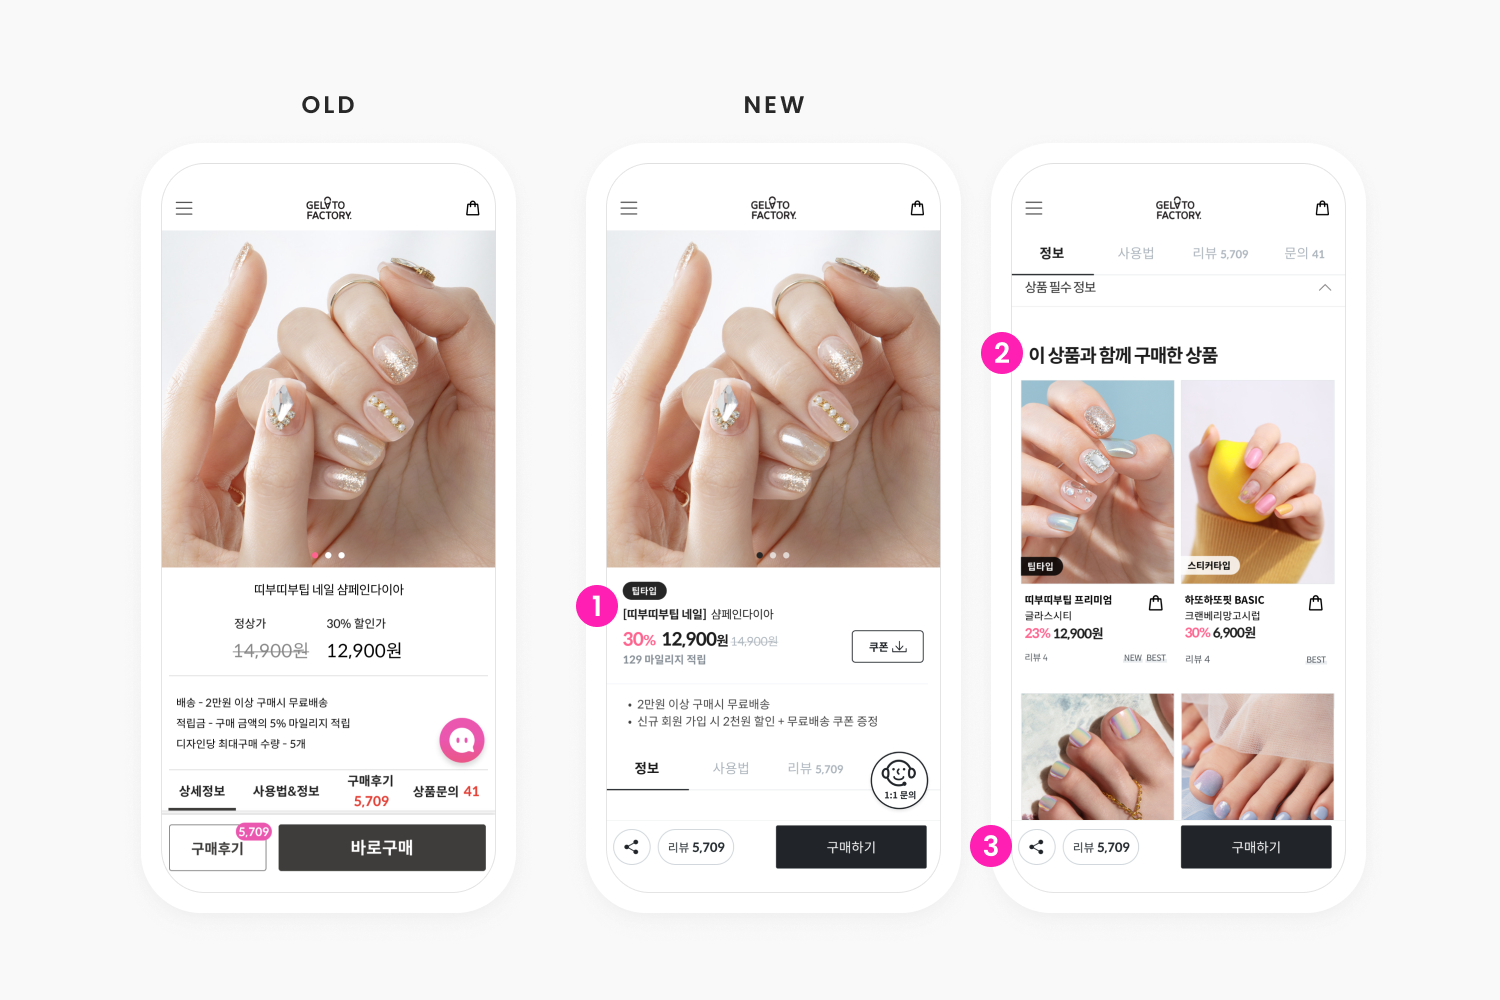
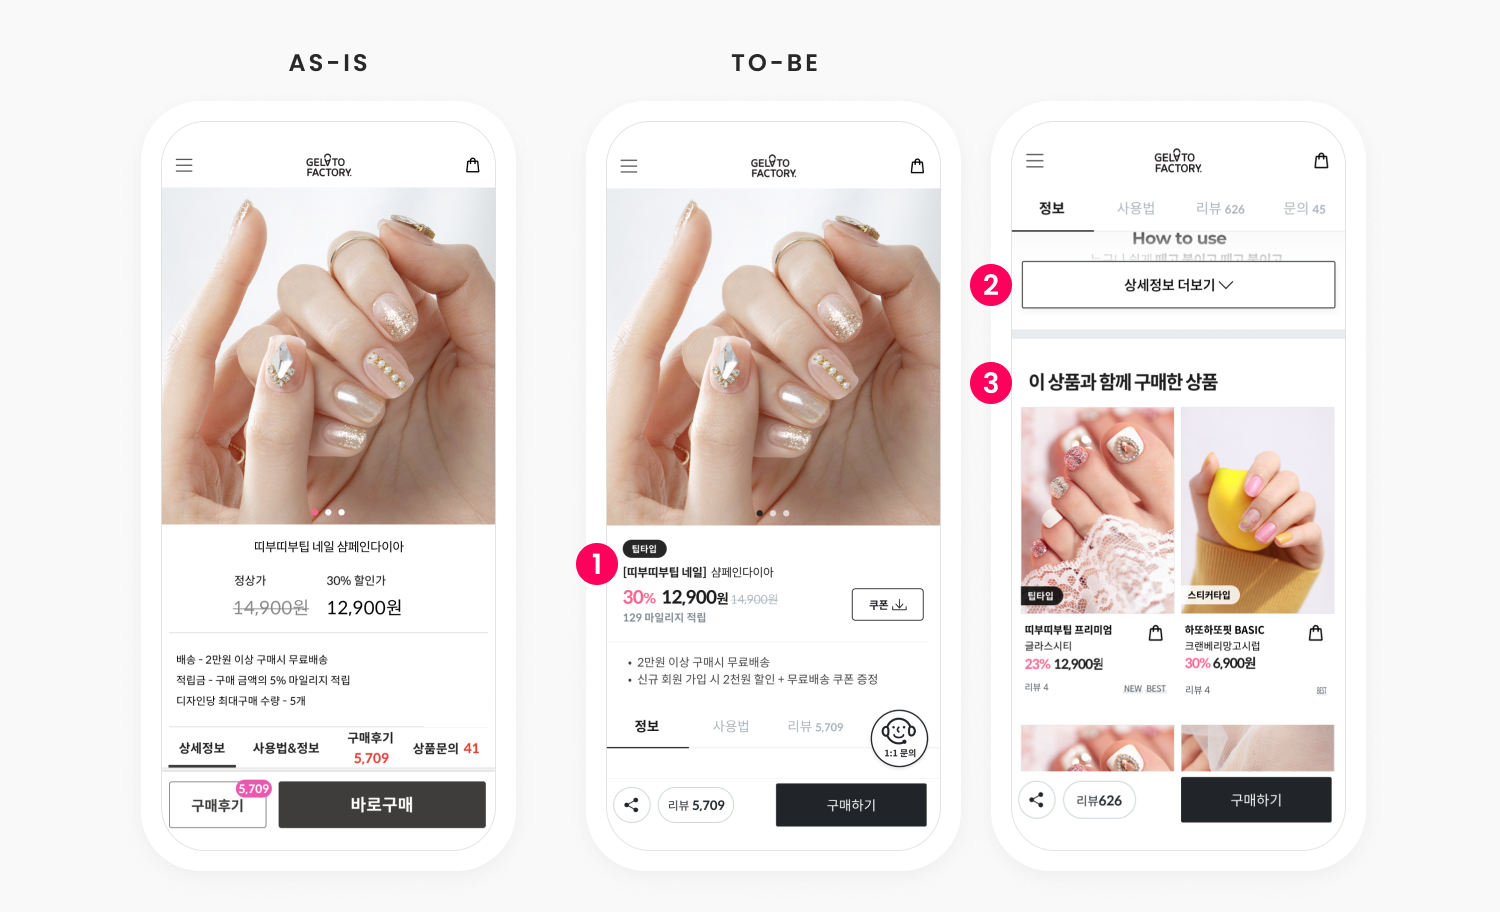
젤팩 내용 수정

diff --git a/_projects/2020-03-01-factory.md b/_projects/2020-03-01-factory.md
@@ -9,24 +9,35 @@ gallery_images:
   - factory.png
 ---
 * **Team**: 1 PM, 1 designer and 1 engineer
-* **Duration**: 1 months (2020.03)
+* **Duration**: 2 months (2020.03)
 * **Role**: Product Design (100%)
 * **Areas of Focus**: User Research, A/B Test, Visual Design
 
 #### Overview
-젤라또팩토리는 네일스티커와 네일팁, 관련 부자재 등을 판매하는 커머스 서비스입니다. 여느 커머스 서비스와 같이 매출을 끌어올리기 위해 다양한 시도를 했는데요. 그 중에서 ```평균 구매 제품 수 늘리기```에 초점을 맞췄던 프로젝트에 대해 이야기하려고 합니다.
+젤라또팩토리는 네일스티커와 네일팁, 관련 부자재 등을 판매하는 커머스 서비스입니다. 여느 커머스 서비스와 같이 매출을 끌어올리기 위해 다양한 시도를 했는데요. 
+
+그 중에서 `객단가 증가(평균 구매 제품 수 증가)`에 초점을 맞춰 상품 탐색 시나리오를 개선해 `유저당 구매 제품 수 평균을 66% 높인` 프로젝트에 대해 이야기하려고 합니다.
 
 2020년 초에 진행했고, 기획자 1명과 개발자 1명 그리고 저까지 3명이 팀이 되어 작업했습니다.
 
+#### As-is
+사용자는 sns 광고를 통해 `상품 목록` 또는 `상품 상세` 페이지로 유입되어 마음에 드는 상품을 구경하고 장바구니에 상품을 담습니다. 세션당 `4.65`개의 페이지를 봅니다.
+
+![](/images/projects/06_factory/01.png)
+
 #### Problem
-젤라또팩토리 전체 소비자의 80%는 광고로 유입됩니다. 그만큼 광고비에 리소스를 많이 투입하고 있었는데요. 데이터 분석가, 세일즈팀 등 협업을 통해 선정한 문제점은 비교적 명확했습니다. 소비자들이 ```카탈로그 광고에서 본 1-2개의 제품만 구매한다```는 점이었습니다. 사이트 내에서 다른 제품에 대한 소개나 안내가 자연스레 되지 않고 있었고, 탐색 후 다른 제품군으로 연결되는 장치도 부족한 상태였습니다.
+젤라또팩토리 전체 소비자의 80%는 광고로 유입됩니다. CAC(신규 고객 획득 비용)가 1만원 정도인데 비해 객단가는 2만원대로 높지 않은 상황이었습니다. 
+
+데이터 분석가와 세일즈팀에서 데이터를 살펴보니, 소비자가 다양한 상품을 보지 못하고 `카탈로그 광고에서 본 1-2개의 제품만 구매` 후 사이트를 나간다는 것을 알게되었습니다. 
+
+사이트 내에서 다른 제품에 대한 소개나 안내가 자연스레 되지 않고 있었고, 탐색 후 다른 제품군으로 연결되는 장치도 부족한 상태였습니다.
 
 #### Goal
 1. Product : 소비자에게 다양한 제품을 소개 & 안내하고 구매를 유도한다. 
 2. User : 더 다양한 제품을 살펴보며 마음에 드는 제품을 함께 구매한다.
 3. Business : 매출을 높인다.
 
-아래에서는 리스트 페이지와 디테일 페이지 각각의 문제점과 해결 방법에 대해 이야기해보겠습니다.
+아래에서는 리스트 페이지와 디테일 페이지 각각의 문제점과 개선한 방법에 대해 이야기해보겠습니다.
 
 #### List Page
 <!-- [IMG] before 리스트 유형 (베스트, 카테고리, 이벤트 리스트) -->
@@ -39,14 +50,47 @@ gallery_images:
 
 ##### - Problem & Solution
 
-1.  세부 카테고리의 경우 디폴트 탭이 아니면 클릭을 잘 하지 않습니다. → **Solution** : 카테고리 디자인을 더 Clickable한 안으로 변경합니다. 디자인 변경 후 탭 클릭을 통한 탭간 이동이 42% 증가했습니다.
-2. 리스트의 정보가 빽빽하게 구성되어있고 위계가 불분명합니다. → **Solution** : 리스트 표시 정보에서 카테고리 이름을 분리해 적어주었습니다. 썸네일 형태를 세로로 긴 직사각형으로 변경해 제품의 디자인을 더 강조했고, new/best 뱃지를 우측하단으로 옮겨 위계를 낮추었습니다.
-
 ![](/images/projects/06_factory/02.png)
+
+###### 1. 장바구니 버튼 추가 
+구매자의 데이터를 살펴보니 한 디자인의 상품을 여러개 구매하지 않고, `한개씩만 구매`한다는 사실을 알 수 있었습니다. 사용자에게 수량 선택이 중요한 요소가 아님에도 불구하고 상품을 장바구니에 담으려면 상품 상세 화면으로 이동해야만 했습니다. 또한 '찜' 액션이 없는 서비스의 특성상 장바구니 액션이 더 쉬우면 대체재의 역할을 할 수 있습니다 <br>
+**Solution** : 상품 목록에서 상품을 탐색하다 언제든지 장바구니에 담을 수 있도록 장바구니 버튼을 추가했습니다. 이후 장바구니 담기 액션이 `14% 증가`했고 구매 전환수가 증가했습니다.
+<details>
+<summary>장바구니 기존 퍼널</summary>
+<div markdown="1" >       
+전체 퍼널중 특히 '장바구니 담기' 퍼널에서 이탈이 높았습니다. 장바구니에 한 개라도 담은 회원에게는 '장바구니에 담아놓은 상품이 있어요' 와 같은 CRM 메세지를 보내 재접속을 유도할 수 있었기에 한 개라도 장바구니에 담게 하는 것이 중요하다고 판단했습니다.
+
+![](/images/projects/06_factory/07.png
+
+</div>
+</details>
+<br>
+
+###### 2. 세부 카테고리 디자인 변경 및 배너 추가
+
+세부 카테고리의 경우 디폴트 탭이 아니면 클릭을 잘 하지 않습니다. <br>
+**Solution** : 카테고리 디자인을 더 Clickable한 안으로 변경합니다. 또한 카테고리 리스트 페이지 하단에 다른 페이지로 연결될 수 있는 배너를 추가했습니다. 개선 후 탭간 이동이 `42% 증가`했고 세션당 페이지수도 `4.65`에서 `6.13으로 증가`했습니다. (페이지수 증가는 사이드바 개선과도 연결되는 부분입니다.)
+<details>
+<summary>하단 배너</summary>
+<div markdown="1">       
+  <img src="/images/projects/06_factory/11.png" width="30%">
+</div>
+</details>
+<br>
+
+###### 3. 디자인 강조 및 상품 정보 정리
+
+상품 정보가 빽빽하게 구성되어있고 위계가 불분명합니다. <br>
+**Solution** : 썸네일 형태를 세로로 긴 직사각형으로 변경해 제품의 디자인을 더 강조했습니다. 한 줄에 적혀있던 카테고리명과 제품명을 분리해 상품 구분이 쉽도록 했고, new/best 뱃지를 우측하단으로 옮겨 위계를 낮추었습니다.
+
+<br>
+
+###### 4. 정상가 표시 제거
+
+![](/images/projects/06_factory/03.png)
 
 기존 리스트는 ```할인율 + 판매가 + 정상가```로 구성되어 있었습니다. 이 구성이 최적일지 검증하기 위해 A/B 테스트를 진행했고, 테스트 결과 3가지 정보가 있는 경우보다 2가지 정보가 있는 경우에 전환율이 더 높은 것을 확인할 수 있었습니다. ```할인율 + 판매가```와 ```판매가 + 정상가```의 결과 차이는 크지 않았는데, 젤라또팩토리의 경우 특정 할인율로 이벤트를 하는 경우가 많아 세일즈 측면에서 더 강조하고 싶은 할인율을 포함한 ```할인율 + 판매가```로 구성을 결정했습니다.
 
-![](/images/projects/06_factory/03.png)
 
 리스트에 장바구니 버튼을 추가한 것도 새로운 변화입니다. 장바구니 버튼을 추가한 후 장바구니 담기 액션이 ```27% 상승```하게 되어 전환율에 유의미한 영향을 주었습니다.
 
@@ -54,7 +98,7 @@ gallery_images:
 
 
 ##### - 1차 개선 후
-1차 개선 이후 탐색 관련 지표는 개선된 듯 보였지만, 새로운 문제가 생겼습니다. 추가된 카테고리(플라스틱 팁)의 제품을 기존 제품(스티커)과 혼동해 잘못 구매한 소비자들의 CS가 늘어났다는 점입니다. 리스트 개선 당시 카테고리명을 분리해 적은 것으로 어느 정도 구분이 가능할 것이라 예측했는데, 그 방식으로 충분하지 않았기에 더 보완할 필요성을 느꼈습니다.
+1차 개선 이후 탐색 관련 지표는 개선된 듯 보였지만, 새로운 문제가 생겼습니다. **추가된 카테고리(띠부띠부팁/플라스틱 팁)**의 제품을 **기존 제품(하또하또핏/스티커)**과 혼동해 잘못 구매한 소비자들의 CS가 늘어났다는 점입니다. 리스트 개선 당시 카테고리명을 분리해 적은 것으로 어느 정도 구분이 가능할 것이라 예측했는데, 그 방식으로 충분하지 않았기에 더 보완할 필요성을 느꼈습니다.
 
 > 스티커가 아닌 줄 알고 샀는데 스티커네요. 잘 보고 살거 그랬습니다.
 
@@ -66,7 +110,8 @@ gallery_images:
 
 ##### - Problem & Solution
 
-소비자들이 카테고리명에 익숙하지 않아 현재 리스트 정보만으로는 제품을 구분하기 어렵습니다. → **Solution** : 1과 같이 타입별 설명 이미지를 추가해 해당 카테고리가 어떤 제품인지 파악할 수 있도록 합니다. 여러 제품이 섞여 있는 페이지인 경우에도 더 잘 구분되도록 썸네일 이미지 좌측 하단에 2와 같이 뱃지를 추가해 혼동을 줄였습니다.
+소비자들이 카테고리명에 익숙하지 않아 현재 리스트 정보만으로는 제품을 구분하기 어렵습니다. <br>
+**Solution** : 1과 같이 타입별 설명 이미지를 추가해 해당 카테고리가 어떤 제품인지 파악할 수 있도록 합니다. 여러 제품이 섞여 있는 페이지인 경우에도 더 잘 구분되도록 썸네일 이미지 좌측 하단에 2와 같이 뱃지를 추가해 혼동을 줄였습니다.
 
 ![](/images/projects/06_factory/04.png)
 
@@ -74,22 +119,37 @@ gallery_images:
 
 ![](/images/projects/06_factory/06.png)
 
-빠르게 2차 개선을 마쳤고, 이후 관련 CS가 80% 감소했습니다.
+빠르게 2차 개선을 마쳤고, 이후 관련 CS가 `80% 감소`했습니다.
 
 #### Detail Page
 
-상품 상세페이지도 몇 가지 개선을 진행했습니다. 
-1. 솔루션 자체 템플릿의 산만했던 레이아웃을 보기 좋게 정리하고 리스트 페이지와 스타일을 통일했습니다. 
-2. 페이지 하단에 '이 상품과 함께 구매한 상품' 영역을 더해 탐색이 지속되도록 했습니다. 해당 영역 추가 이후 상세 페이지 접근 유저의 12%가 추천 상품을 탐색하게 되었습니다. 
-3. 하단 네비게이션에 공유버튼을 추가했습니다. 웹이기 때문에 링크 복사가 어렵지 않은 액션이지만, 카카오톡으로 바로 연결되는 공유 액션을 추가해 편의성을 더했습니다.
-
 ![](/images/projects/06_factory/05.png)
 
+1. 기본 템플릿의 산만했던 레이아웃을 보기 좋게 정리하고 상품 목록 페이지와 스타일을 통일했습니다.
+2. 히트맵을 통해 파악한 스크롤 뎁스로, 소비자가 주로 스크롤 하는 영역의 아랫부분을 버튼으로 처리해 공통 설명 이미지를 보는 피로도를 줄였습니다.
+3. 페이지 하단에 ‘이 상품과 함께 구매한 상품’ 영역을 더해 탐색이 지속되도록 했습니다. 해당 영역 추가 이후 상세 페이지 접근 유저의 `12%가 추천 상품을 탐색`하게 되었습니다.
 
+
+#### Sidebar & Basket
+
+![](/images/projects/06_factory/08.png)
+
+사이드바의 세부 카테고리의 클릭수가 현저히 낮은 것을 파악하고, 접어서 보여주던 세부 카테고리를 펼쳐지게 변경해 세부 카테고리를 한눈에 파악할 수 있도록 했습니다. 
+
+![](/images/projects/06_factory/09.png)
+
+결제로 넘어가기 전, 마지막 퍼널에서 부제품 등 관련있는 추가 상품을 더 담을 수 있도록 상품 목록을 추가했습니다. 기존 상품 목록 구성보다 작게 만들었고, 가로 스크롤로 상품을 탐색하고 장바구니에 바로 담을 수 있도록 했습니다.
 
 #### Result
+
+<img src="/images/projects/06_factory/10.png" width="70%">
+
 리스트 페이지와 디테일 페이지 개선 후 1달간의 지표를 비교한 결과 목표로 했던 ```유저당 구매 제품 수 평균이 2.1개에서 3.5개로 증가```한 것을 확인할 수 있었습니다. 소비자 한 명을 데려오는 데 꽤 높은 비용을 쓰고 있었기 때문에 광고 유입 소비자가 1개 이상의 제품을 더 구매하게 만들었다는 결과가 의미있게 느껴졌습니다.
 
+##### 아쉬운점
+
 다만 여름 성수기에 다가갈수록 매출 그래프가 올라가는 양상을 보이고, 테스트 중간에 진행되었던 이벤트의 영향도 있었기 때문에 이 개편만을 통해 개선된 수치라고 보기는 어려울 수 있다는 점은 아쉽습니다. 앞으로의 테스트에서는 정확한 검증을 위해 테스트 풀을 잘 설정하고, 테스트 기간도 이벤트 등 외부 요인과 최대한 중복되지 않게 설정하는 것이 중요하다는 점을 배웠습니다. 
+
+##### 배운점
 
 문제 설정부터 데이터 분석가와 세일즈팀의 도움을 받았고, 컨텐츠 디자인팀의 도움으로 썸네일 이미지 크기를 변경할 수 있었으며, 설명 이미지 제작을 위해 스튜디오 촬영을 하는 등 여러 부서의 도움을 받았던 프로젝트였습니다. 다양한 요구사항을 조율하며 진행했기에 커뮤니케이션 역량을 성장시키는데 큰 도움이 되었다고 생각하는데요. 다음에도 이렇게 제가 성장한 것을 느낄 수 있는 재미있는 프로젝트를 할 수 있길 바라며 글을 마칩니다.

diff --git a/_projects/2020-08-01-headline.md b/_projects/2020-08-01-headline.md
@@ -9,7 +9,7 @@ gallery_images:
   - headline.png
 ---
 * **Team**: 1 PO, 1 designer and 4 engineers
-* **Duration**: 1 year
+* **Duration**: 1 year (2020.08~)
 * **Role**: Product Designer (100%)
 * **Areas of Focus**: User Research, Visual Design, Prototyping
 
